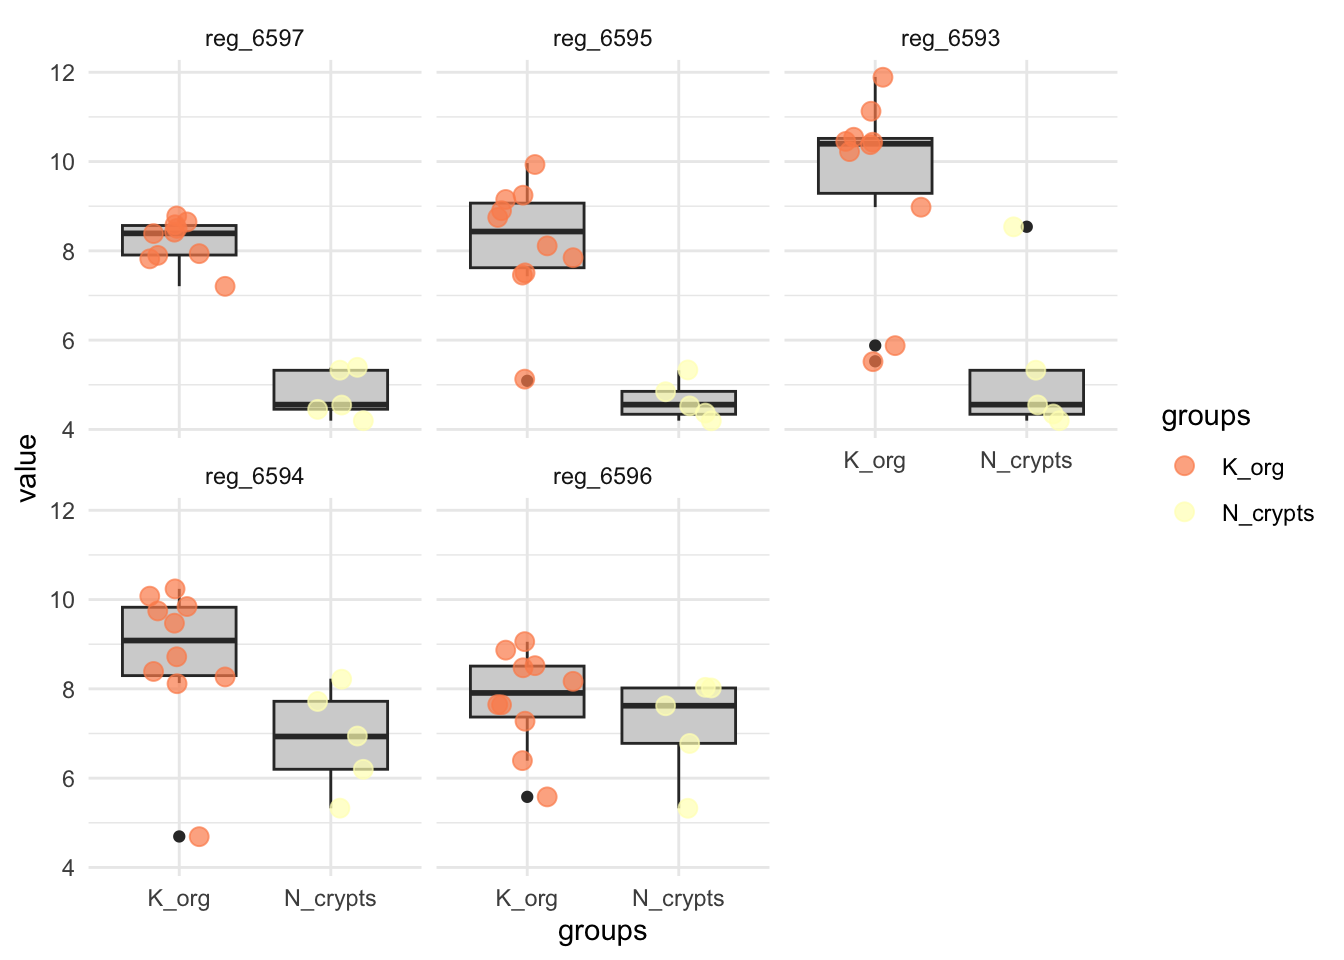
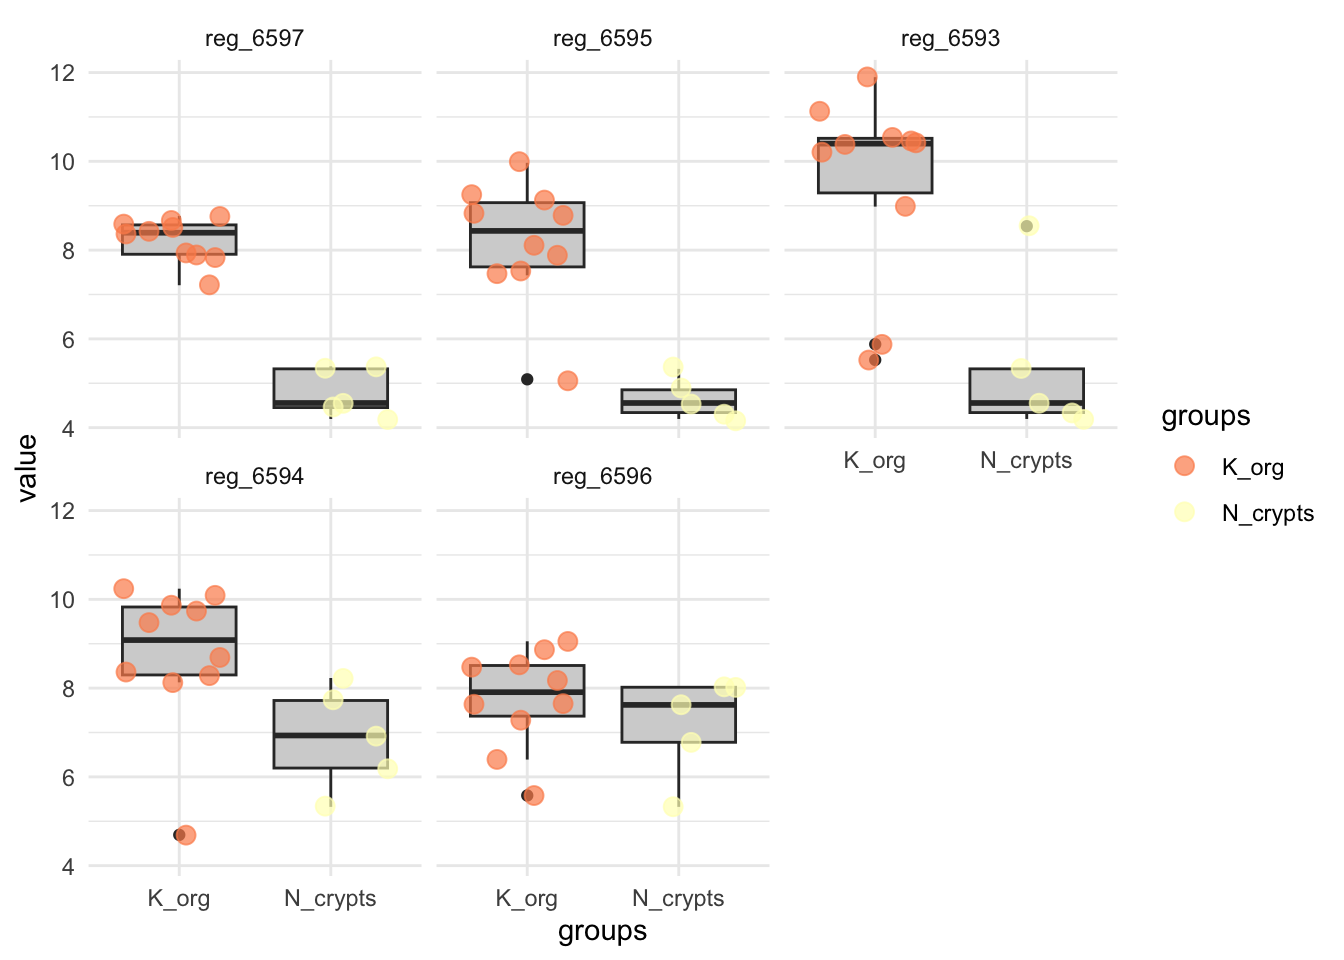
ChIP-seq update

diff --git a/docs/ChIP-seq_analysis/pages/ChIP-seq_analysis_part2.html b/docs/ChIP-seq_analysis/pages/ChIP-seq_analysis_part2.html
@@ -861,12 +861,12 @@ $GRADE_COLON_AND_RECTAL_CANCER_DN
 <div class="cell-output cell-output-stdout">
 <pre class="bordered"><code>                            pathway       pval       padj        ES       NES
                              &lt;char&gt;      &lt;num&gt;      &lt;num&gt;     &lt;num&gt;     &lt;num&gt;
-1: GRADE_COLON_AND_RECTAL_CANCER_UP 0.02972028 0.05944056 0.3032790 1.5785699
-2: GRADE_COLON_AND_RECTAL_CANCER_DN 0.49103943 0.49103943 0.2120043 0.9796645
+1: GRADE_COLON_AND_RECTAL_CANCER_UP 0.01933216 0.03866432 0.3032790 1.5673214
+2: GRADE_COLON_AND_RECTAL_CANCER_DN 0.49084249 0.49084249 0.2120043 0.9770358
    nMoreExtreme  size                                  leadingEdge
           &lt;num&gt; &lt;int&gt;                                       &lt;list&gt;
-1:           16    66 PLAU,TCF7,CD46,GTF3A,HNRNPA2B1,TFB1M,...[17]
-2:          273    41  CHST15,TOX2,SASH1,TGFBR3,TRPS1,GPC1,...[12]</code></pre>
+1:           10    66 PLAU,TCF7,CD46,GTF3A,HNRNPA2B1,TFB1M,...[17]
+2:          267    41  CHST15,TOX2,SASH1,TGFBR3,TRPS1,GPC1,...[12]</code></pre>
 </div>
 </div>
 <p>Plot GSEA results</p>